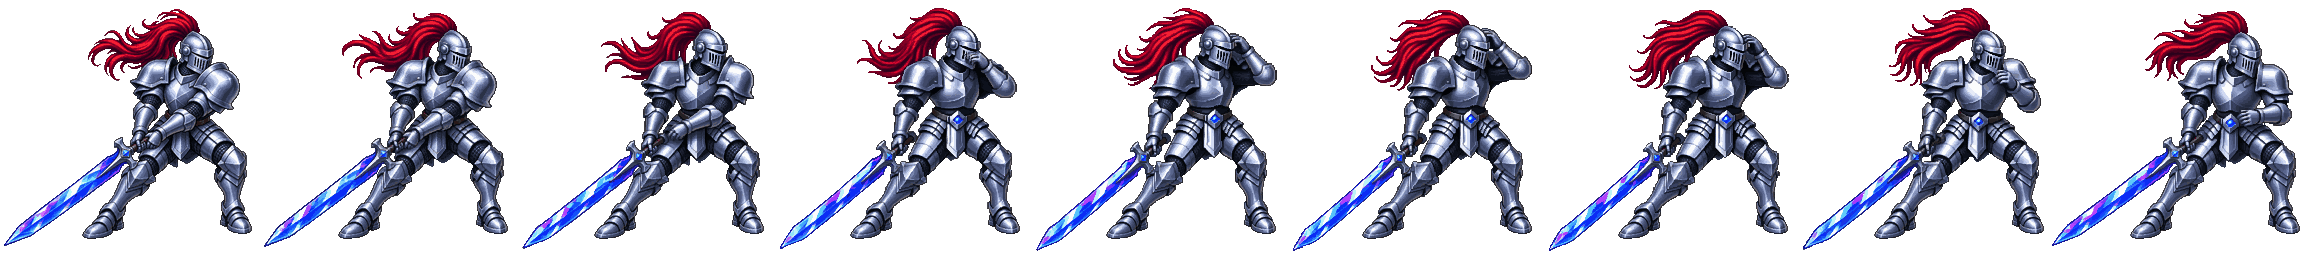
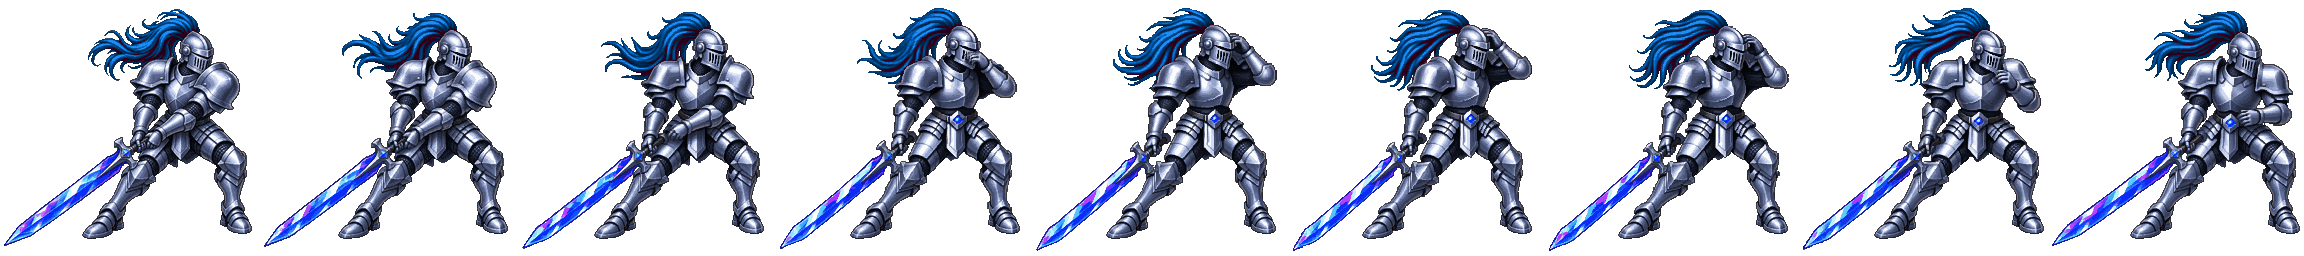
deploy: ff071e77d1dd27823b56daf81f7cbdd1e473d92b

diff --git a/index.html b/index.html
@@ -4,13 +4,13 @@
   <meta charset="UTF-8" />
   <meta name="viewport" content="width=device-width, initial-scale=1.0" />
   <title>Browser Gacha — Hero Battler</title>
-  <link rel="stylesheet" href="css/style.css?v=351c50bd" />
+  <link rel="stylesheet" href="css/style.css?v=ff071e77" />
 </head>
 <body>
   <div id="game-root">
     <!-- Top bar: nav + currency -->
     <header id="topbar">
-      <div id="logo">BROWSER GACHA <span id="version-tag">v329 · 351c50bd</span></div>
+      <div id="logo">BROWSER GACHA <span id="version-tag">v330 · ff071e77</span></div>
       <nav id="nav-tabs">
         <button class="nav-tab" data-screen="summon">Summon</button>
         <button class="nav-tab" data-screen="team">Team</button>
@@ -288,60 +288,60 @@
     </section>
   </div>
 
-  <script src="js/sound.js?v=351c50bd"></script>
-  <script src="js/meter.js?v=351c50bd"></script>
-  <script src="js/config.js?v=351c50bd"></script>
-  <script src="js/hex.js?v=351c50bd"></script>
-  <script src="js/elements.js?v=351c50bd"></script>
-  <script src="js/races.js?v=351c50bd"></script>
-  <script src="js/tags.js?v=351c50bd"></script>
-  <script src="js/placeholder_art.js?v=351c50bd"></script>
-  <script src="js/sprites.js?v=351c50bd"></script>
-  <script src="js/abilities.js?v=351c50bd"></script>
-  <script src="js/progression.js?v=351c50bd"></script>
-  <script src="js/attune.js?v=351c50bd"></script>
-  <script src="js/gear.js?v=351c50bd"></script>
-  <script src="js/hero.js?v=351c50bd"></script>
-  <script src="js/data/positionals.js?v=351c50bd"></script>
-  <script src="js/data/heroes.js?v=351c50bd"></script>
-  <script src="js/data/heroes/humans.js?v=351c50bd"></script>
-  <script src="js/data/heroes/rats.js?v=351c50bd"></script>
-  <script src="js/data/heroes/avians.js?v=351c50bd"></script>
-  <script src="js/data/heroes/minotaurs.js?v=351c50bd"></script>
-  <script src="js/data/heroes/snakes.js?v=351c50bd"></script>
-  <script src="js/data/heroes/wolfs.js?v=351c50bd"></script>
-  <script src="js/data/heroes/boars.js?v=351c50bd"></script>
-  <script src="js/data/heroes/bears.js?v=351c50bd"></script>
-  <script src="js/data/heroes/cats.js?v=351c50bd"></script>
-  <script src="js/data/heroes/drakes.js?v=351c50bd"></script>
-  <script src="js/data/balance.js?v=351c50bd"></script>
-  <script src="js/data/enemies.js?v=351c50bd"></script>
-  <script src="js/data/campaign.js?v=351c50bd"></script>
-  <script src="js/data/bosses.js?v=351c50bd"></script>
-  <script src="js/data/elemental_bosses.js?v=351c50bd"></script>
-  <script src="js/data/dungeons.js?v=351c50bd"></script>
-  <script src="js/data/effects.js?v=351c50bd"></script>
-  <script src="js/quests.js?v=351c50bd"></script>
-  <script src="js/state.js?v=351c50bd"></script>
-  <script src="js/gacha.js?v=351c50bd"></script>
-  <script src="js/ai.js?v=351c50bd"></script>
-  <script src="js/waves.js?v=351c50bd"></script>
-  <script src="js/campaign.js?v=351c50bd"></script>
-  <script src="js/achievements.js?v=351c50bd"></script>
-  <script src="js/battle.js?v=351c50bd"></script>
-  <script src="js/render.js?v=351c50bd"></script>
-  <script src="js/ui.js?v=351c50bd"></script>
-  <script src="js/compendium_screen.js?v=351c50bd"></script>
-  <script src="js/campaign_screen.js?v=351c50bd"></script>
-  <script src="js/battle_select.js?v=351c50bd"></script>
-  <script src="js/battle_screen.js?v=351c50bd"></script>
-  <script src="js/team_screen.js?v=351c50bd"></script>
-  <script src="js/improve_screen.js?v=351c50bd"></script>
-  <script src="js/blacksmith_screen.js?v=351c50bd"></script>
-  <script src="js/quests_screen.js?v=351c50bd"></script>
-  <script src="js/shop_screen.js?v=351c50bd"></script>
-  <script src="js/summon_screen.js?v=351c50bd"></script>
-  <script src="js/onboarding.js?v=351c50bd"></script>
-  <script src="js/main.js?v=351c50bd"></script>
+  <script src="js/sound.js?v=ff071e77"></script>
+  <script src="js/meter.js?v=ff071e77"></script>
+  <script src="js/config.js?v=ff071e77"></script>
+  <script src="js/hex.js?v=ff071e77"></script>
+  <script src="js/elements.js?v=ff071e77"></script>
+  <script src="js/races.js?v=ff071e77"></script>
+  <script src="js/tags.js?v=ff071e77"></script>
+  <script src="js/placeholder_art.js?v=ff071e77"></script>
+  <script src="js/sprites.js?v=ff071e77"></script>
+  <script src="js/abilities.js?v=ff071e77"></script>
+  <script src="js/progression.js?v=ff071e77"></script>
+  <script src="js/attune.js?v=ff071e77"></script>
+  <script src="js/gear.js?v=ff071e77"></script>
+  <script src="js/hero.js?v=ff071e77"></script>
+  <script src="js/data/positionals.js?v=ff071e77"></script>
+  <script src="js/data/heroes.js?v=ff071e77"></script>
+  <script src="js/data/heroes/humans.js?v=ff071e77"></script>
+  <script src="js/data/heroes/rats.js?v=ff071e77"></script>
+  <script src="js/data/heroes/avians.js?v=ff071e77"></script>
+  <script src="js/data/heroes/minotaurs.js?v=ff071e77"></script>
+  <script src="js/data/heroes/snakes.js?v=ff071e77"></script>
+  <script src="js/data/heroes/wolfs.js?v=ff071e77"></script>
+  <script src="js/data/heroes/boars.js?v=ff071e77"></script>
+  <script src="js/data/heroes/bears.js?v=ff071e77"></script>
+  <script src="js/data/heroes/cats.js?v=ff071e77"></script>
+  <script src="js/data/heroes/drakes.js?v=ff071e77"></script>
+  <script src="js/data/balance.js?v=ff071e77"></script>
+  <script src="js/data/enemies.js?v=ff071e77"></script>
+  <script src="js/data/campaign.js?v=ff071e77"></script>
+  <script src="js/data/bosses.js?v=ff071e77"></script>
+  <script src="js/data/elemental_bosses.js?v=ff071e77"></script>
+  <script src="js/data/dungeons.js?v=ff071e77"></script>
+  <script src="js/data/effects.js?v=ff071e77"></script>
+  <script src="js/quests.js?v=ff071e77"></script>
+  <script src="js/state.js?v=ff071e77"></script>
+  <script src="js/gacha.js?v=ff071e77"></script>
+  <script src="js/ai.js?v=ff071e77"></script>
+  <script src="js/waves.js?v=ff071e77"></script>
+  <script src="js/campaign.js?v=ff071e77"></script>
+  <script src="js/achievements.js?v=ff071e77"></script>
+  <script src="js/battle.js?v=ff071e77"></script>
+  <script src="js/render.js?v=ff071e77"></script>
+  <script src="js/ui.js?v=ff071e77"></script>
+  <script src="js/compendium_screen.js?v=ff071e77"></script>
+  <script src="js/campaign_screen.js?v=ff071e77"></script>
+  <script src="js/battle_select.js?v=ff071e77"></script>
+  <script src="js/battle_screen.js?v=ff071e77"></script>
+  <script src="js/team_screen.js?v=ff071e77"></script>
+  <script src="js/improve_screen.js?v=ff071e77"></script>
+  <script src="js/blacksmith_screen.js?v=ff071e77"></script>
+  <script src="js/quests_screen.js?v=ff071e77"></script>
+  <script src="js/shop_screen.js?v=ff071e77"></script>
+  <script src="js/summon_screen.js?v=ff071e77"></script>
+  <script src="js/onboarding.js?v=ff071e77"></script>
+  <script src="js/main.js?v=ff071e77"></script>
 </body>
 </html>

diff --git a/test/data.test.js b/test/data.test.js
@@ -182,7 +182,7 @@ test('every race pack mirrors its gear set, tier for tier', () => {
 
 test('human sects hold real humans, once each, with their numbers', () => {
   const expected = {
-    cryst: { number: 1, members: ['echo'] },
+    cryst: { number: 1, members: ['echo', 'florence'] },
     hedge: { number: 3, members: ['vex', 'vivian', 'coral', 'emily'] },
     reverence: { number: 4, members: ['catherine', 'toll', 'javarious', 'leonardo', 'oak', 'silas', 'eli'] },
     shadowflower: { number: 2, members: ['sawyer'] },
@@ -203,7 +203,8 @@ test('human sects hold real humans, once each, with their numbers', () => {
       assert(RACES.sectOf(HEROES[m]) === sect, `sectOf(${m}) misses`);
     }
   }
-  assert(RACES.sectOf(HEROES.florence) === null, 'Florence has no sect yet');
+  assert(RACES.sectOf(HEROES.florence) === RACES.SECTS.cryst,
+    'Tide marches with Cryst now');
 });
 
 test('every hero resolves a full tag line', () => {

diff --git a/js/races.js b/js/races.js
@@ -54,10 +54,10 @@ const RACES = (() => {
   // Human sects: the named heroes belong to orders, each with an
   // assigned number (a designation, not a roster size — Reverence is
   // No. 4 and runs seven strong). Members are hero ids; 'echo' is
-  // Aniani. Florence stands outside the sects for now.
+  // Aniani, 'florence' is Tide (the Crystal Blade wears Cryst blue).
   const SECTS = {
     cryst:     { id: 'cryst',     name: 'Cryst',     number: 1,
-                 members: ['echo'] },
+                 members: ['echo', 'florence'] },
     hedge:     { id: 'hedge',     name: 'Hedge',     number: 3,
                  members: ['vex', 'vivian', 'coral', 'emily'] },
     reverence: { id: 'reverence', name: 'Reverence', number: 4,

diff --git a/js/data/heroes/humans.js b/js/data/heroes/humans.js
@@ -698,8 +698,9 @@ Object.assign(HEROES, {
     title: 'Crystal Blade',
     rarity: 4,
     stats: { hp: 1450, atk: 240, def: 130, speed: 105 },
-    // Placeholder tint (silver armor, crystal sword) until strips load.
-    tint: { body: '#8d9bb8', helm: '#c8d0e0', weapon: '#8ad8ff', shield: '#a83a3a' },
+    // Placeholder tint (silver armor, crystal sword, blue plume) until
+    // strips load.
+    tint: { body: '#8d9bb8', helm: '#c8d0e0', weapon: '#8ad8ff', shield: '#3a5ac8' },
     sprite: {
       displayH: 88,
       // Manual: her body is in the right half of the frame, and the low
